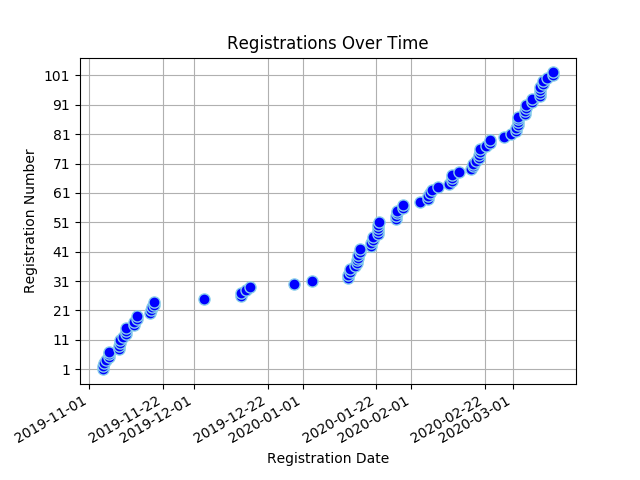
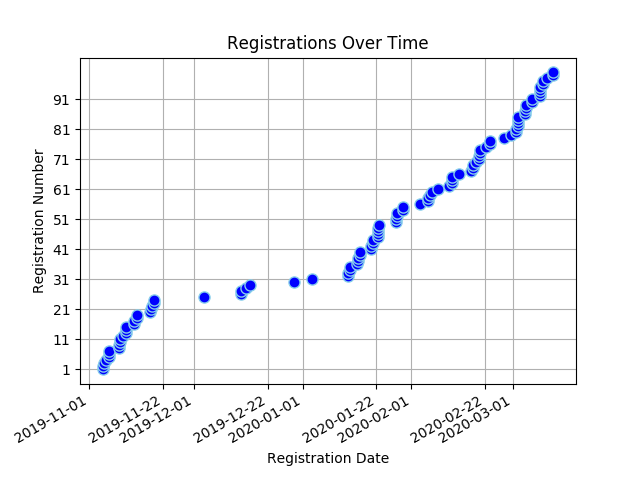
Registree stats backup on Wed Apr  8 17:27:26 SAST 2020

Changed region(s): [[0.0312, 0.25, 0.9062, 0.75], [0.0625, 0.125, 0.125, 0.2188]]

diff --git a/content/registrees/_index.md b/content/registrees/_index.md
@@ -3,11 +3,11 @@ title: Registration Stats
 draft: false
 ---
 
-<ul><li><strong>Number of Registrees</strong>: 102</li>
+<ul><li><strong>Number of Registrees</strong>: 100</li>
 
 <li><strong>Number of Clubs</strong>: 44</li>
 
-<li><strong>Club With Most Attendees</strong>: Cape Of Good Hope (8 registrees)</li>
+<li><strong>Clubs With Most Attendees</strong>: Cape Of Good Hope, Midrand (6 registrees)</li>
 </ul><h2>Registrees</h2>
 
 <script type="text/javascript" src="https://ajax.googleapis.com/ajax/libs/jquery/3.4.1/jquery.min.js"></script>
@@ -30,6 +30,6 @@ draft: false
         </tr>
     </thead>
     <tbody>
-<tr><td>Linda Anderson</td><td>George</td></tr><tr><td>Karl Bands</td><td>Helderkruin</td></tr><tr><td>Jonquille Bands</td><td>Helderkruin</td></tr><tr><td>Valencia Beukes</td><td>Kuilsriver</td></tr><tr><td>Lyn Botha</td><td>Cowies Hill</td></tr><tr><td>Annette Bothma</td><td>Fish Hoek</td></tr><tr><td>Jose Braga Borges</td><td>Malmesbury</td></tr><tr><td>Lynnette Virginia Christians</td><td>Cape Of Good Hope</td></tr><tr><td>Ivan Du Plooy</td><td>Krugersdorp</td></tr><tr><td>Peggy Du Plooy</td><td>Krugersdorp</td></tr><tr><td>Desiree Du Toit</td><td>Ramsgate</td></tr><tr><td>Charles Flanagan</td><td>Tokai</td></tr><tr><td>Julie Flanagan</td><td>Tokai</td></tr><tr><td>Allison Georges</td><td>Cape Of Good Hope</td></tr><tr><td>Bernd Gerhard</td><td>Wilro Park</td></tr><tr><td>Shirley Gerhard</td><td>Wilro Park</td></tr><tr><td>Valerie Graham</td><td>Nelspruit</td></tr><tr><td>Michael Graham</td><td>Nelspruit</td></tr><tr><td>Victor Hawla</td><td>Krugersdorp</td></tr><tr><td>Loriane Hawla</td><td>(Partner in Service)</td></tr><tr><td>Barbara Haywood</td><td>Eden</td></tr><tr><td>Wendy Higgins</td><td>Wilro Park</td></tr><tr><td>Trevor Hobbs</td><td>North Durban</td></tr><tr><td>Avril Hobbs</td><td>North Durban</td></tr><tr><td>Jacqui Hocking</td><td>Midrand</td></tr><tr><td>Cliff Hocking</td><td>Midrand</td></tr><tr><td>Leslie Human</td><td>East London Port Rex</td></tr><tr><td>Akinyemi Ismaila Tunde</td><td>-</td></tr><tr><td>Dawid Jacobs</td><td>Durbanville</td></tr><tr><td>Jean Jacobs</td><td>Mitchells Plain</td></tr><tr><td>Brenda Joshua</td><td>Cape Of Good Hope</td></tr><tr><td>Marco Joubert</td><td>Tygerberg Hills</td></tr><tr><td>Pascal Kabangu</td><td>Cape Of Good Hope</td></tr><tr><td>Ian King</td><td>Alberton</td></tr><tr><td>Sandy King</td><td>Alberton</td></tr><tr><td>Zwaai Krüger</td><td>Sedgefield</td></tr><tr><td>Bevil Lakay</td><td>Mitchells Plain</td></tr><tr><td>Paula Lang</td><td>Gordons Bay</td></tr><tr><td>James Malcolm Lang</td><td>Gordons Bay</td></tr><tr><td>Tony Marron</td><td>Kingsburgh</td></tr><tr><td>Nick Maré</td><td>Benoni Lakes</td></tr><tr><td>Beaulieu Maré</td><td>Benoni Lakes</td></tr><tr><td>Lance Maytham</td><td>Bredasdorp</td></tr><tr><td>Mark Meltzer</td><td>The Wilds</td></tr><tr><td>Roy Michas</td><td>Midrand</td></tr><tr><td>Dawn Michas</td><td>Midrand</td></tr><tr><td>Patrick Mills</td><td>Centurion</td></tr><tr><td>Bernice Mills</td><td>Centurion</td></tr><tr><td>Brian Moses</td><td>Cape Of Good Hope</td></tr><tr><td>Alain Moulounda</td><td>Cape Of Good Hope</td></tr><tr><td>Suzanne Murray</td><td>Vereeniging</td></tr><tr><td>Tillie Nel</td><td>Eden</td></tr><tr><td>Pieter Nel</td><td>George</td></tr><tr><td>Michael Newlands</td><td>Port Alfred</td></tr><tr><td>Ramona Nulliah</td><td>Durban Host</td></tr><tr><td>Gary Nulliah</td><td>Durban Host</td></tr><tr><td>Teresa Pantoleon</td><td>Vereeniging</td></tr><tr><td>William Pfaff</td><td>North Durban</td></tr><tr><td>Patrick Pillay</td><td>Tygerberg Hills</td></tr><tr><td>Gavin Polkinghorne</td><td>Kensington</td></tr><tr><td>Tracey Polkinghorne</td><td>Kensington</td></tr><tr><td>Yvonne  Maureen Poyo</td><td>Cape Of Good Hope</td></tr><tr><td>Karin Preston</td><td>Durban South</td></tr><tr><td>Leon Ras</td><td>Swellendam</td></tr><tr><td>Mary-Anne Ras</td><td>Swellendam</td></tr><tr><td>Moira Rigby</td><td>Kingsburgh</td></tr><tr><td>David Rigby</td><td>Kingsburgh</td></tr><tr><td>Mark Rossouw</td><td>Tokai</td></tr><tr><td>Sharon Sampie</td><td>Bergvliet</td></tr><tr><td>Susanna Helena Smit</td><td>Centurion</td></tr><tr><td>Herman Smit</td><td>Swellendam</td></tr><tr><td>Berdine Smit</td><td>(Partner in Service)</td></tr><tr><td>Rochelle Smith</td><td>Cape Of Good Hope</td></tr><tr><td>Jeff Smith</td><td>Port Shepstone</td></tr><tr><td>Pierre Theron</td><td>Midrand</td></tr><tr><td>Moira Theron</td><td>Midrand</td></tr><tr><td>Diane Townsend</td><td>Benoni Lakes</td></tr><tr><td>Kendyl Townsend</td><td>Benoni Lakes</td></tr><tr><td>Alex Tshikala</td><td>Athlone</td></tr><tr><td>Alistair Tuckett</td><td>Roodepoort Clearwater Cyber</td></tr><tr><td>Gail Tuckett</td><td>Roodepoort Clearwater Cyber</td></tr><tr><td>Rowan Tuckett</td><td>Roodepoort Clearwater Cyber</td></tr><tr><td>Neville Van Rensburg</td><td>Moorreesburg</td></tr><tr><td>Jeannie Van Wulven</td><td>Tygerberg Hills</td></tr><tr><td>Joyce Wilcocks</td><td>Pretoria Jakaranda</td></tr><tr><td>Richard Williams</td><td>(Partner in Service)</td></tr><tr><td>Owolabi Williams Monzur</td><td>Badagry</td></tr><tr><td>Geila Wills</td><td>Cape Town</td></tr><tr><td>Patricia Wilson</td><td>Kingsburgh</td></tr><tr><td>Judy Young</td><td>Durbanville</td></tr><tr><td>Sydney van Heerden</td><td>Wilro Park</td></tr><tr><td>Sandy van Heerden</td><td>Wilro Park</td></tr><tr><td>Deon van Wulven</td><td>Tygerberg Hills</td></tr><tr><td>Janine van Wulven</td><td>Tygerberg Hills</td></tr><tr><td>Lindie van Wyk</td><td>Pretoria Jakaranda</td></tr><tr><td>Vicki van Wyk</td><td>North Durban</td></tr><tr><td>Kim van Wyk</td><td>North Durban</td></tr><tr><td>Martha Maria van der Merwe</td><td>Malmesbury</td></tr><tr><td>Brian von der Decken</td><td>King William's Town</td></tr><tr><td>Janet von der Decken</td><td>(Partner in Service)</td></tr><tr><td>Andrew von der Decken</td><td>King William's Town</td></tr><tr><td>Ann von der Decken</td><td>King William's Town</td></tr>
+<tr><td>Linda Anderson</td><td>George</td></tr><tr><td>Karl Bands</td><td>Helderkruin</td></tr><tr><td>Jonquille Bands</td><td>Helderkruin</td></tr><tr><td>Valencia Beukes</td><td>Kuilsriver</td></tr><tr><td>Lyn Botha</td><td>Cowies Hill</td></tr><tr><td>Annette Bothma</td><td>Fish Hoek</td></tr><tr><td>Jose Braga Borges</td><td>Malmesbury</td></tr><tr><td>Lynnette Virginia Christians</td><td>Cape Of Good Hope</td></tr><tr><td>Ivan Du Plooy</td><td>Krugersdorp</td></tr><tr><td>Peggy Du Plooy</td><td>Krugersdorp</td></tr><tr><td>Desiree Du Toit</td><td>Ramsgate</td></tr><tr><td>Charles Flanagan</td><td>Tokai</td></tr><tr><td>Julie Flanagan</td><td>Tokai</td></tr><tr><td>Bernd Gerhard</td><td>Wilro Park</td></tr><tr><td>Shirley Gerhard</td><td>Wilro Park</td></tr><tr><td>Valerie Graham</td><td>Nelspruit</td></tr><tr><td>Michael Graham</td><td>Nelspruit</td></tr><tr><td>Victor Hawla</td><td>Krugersdorp</td></tr><tr><td>Loriane Hawla</td><td>(Partner in Service)</td></tr><tr><td>Barbara Haywood</td><td>Eden</td></tr><tr><td>Wendy Higgins</td><td>Wilro Park</td></tr><tr><td>Trevor Hobbs</td><td>North Durban</td></tr><tr><td>Avril Hobbs</td><td>North Durban</td></tr><tr><td>Jacqui Hocking</td><td>Midrand</td></tr><tr><td>Cliff Hocking</td><td>Midrand</td></tr><tr><td>Leslie Human</td><td>East London Port Rex</td></tr><tr><td>Akinyemi Ismaila Tunde</td><td>-</td></tr><tr><td>Dawid Jacobs</td><td>Durbanville</td></tr><tr><td>Jean Jacobs</td><td>Mitchells Plain</td></tr><tr><td>Brenda Joshua</td><td>Cape Of Good Hope</td></tr><tr><td>Marco Joubert</td><td>Tygerberg Hills</td></tr><tr><td>Pascal Kabangu</td><td>Cape Of Good Hope</td></tr><tr><td>Ian King</td><td>Alberton</td></tr><tr><td>Sandy King</td><td>Alberton</td></tr><tr><td>Zwaai Krüger</td><td>Sedgefield</td></tr><tr><td>Bevil Lakay</td><td>Mitchells Plain</td></tr><tr><td>Paula Lang</td><td>Gordons Bay</td></tr><tr><td>James Malcolm Lang</td><td>Gordons Bay</td></tr><tr><td>Tony Marron</td><td>Kingsburgh</td></tr><tr><td>Nick Maré</td><td>Benoni Lakes</td></tr><tr><td>Beaulieu Maré</td><td>Benoni Lakes</td></tr><tr><td>Lance Maytham</td><td>Bredasdorp</td></tr><tr><td>Mark Meltzer</td><td>The Wilds</td></tr><tr><td>Roy Michas</td><td>Midrand</td></tr><tr><td>Dawn Michas</td><td>Midrand</td></tr><tr><td>Patrick Mills</td><td>Centurion</td></tr><tr><td>Bernice Mills</td><td>Centurion</td></tr><tr><td>Brian Moses</td><td>Cape Of Good Hope</td></tr><tr><td>Alain Moulounda</td><td>Cape Of Good Hope</td></tr><tr><td>Suzanne Murray</td><td>Vereeniging</td></tr><tr><td>Tillie Nel</td><td>Eden</td></tr><tr><td>Pieter Nel</td><td>George</td></tr><tr><td>Michael Newlands</td><td>Port Alfred</td></tr><tr><td>Ramona Nulliah</td><td>Durban Host</td></tr><tr><td>Gary Nulliah</td><td>Durban Host</td></tr><tr><td>Teresa Pantoleon</td><td>Vereeniging</td></tr><tr><td>William Pfaff</td><td>North Durban</td></tr><tr><td>Patrick Pillay</td><td>Tygerberg Hills</td></tr><tr><td>Gavin Polkinghorne</td><td>Kensington</td></tr><tr><td>Tracey Polkinghorne</td><td>Kensington</td></tr><tr><td>Karin Preston</td><td>Durban South</td></tr><tr><td>Leon Ras</td><td>Swellendam</td></tr><tr><td>Mary-Anne Ras</td><td>Swellendam</td></tr><tr><td>Moira Rigby</td><td>Kingsburgh</td></tr><tr><td>David Rigby</td><td>Kingsburgh</td></tr><tr><td>Mark Rossouw</td><td>Tokai</td></tr><tr><td>Sharon Sampie</td><td>Bergvliet</td></tr><tr><td>Susanna Helena Smit</td><td>Centurion</td></tr><tr><td>Herman Smit</td><td>Swellendam</td></tr><tr><td>Berdine Smit</td><td>(Partner in Service)</td></tr><tr><td>Rochelle Smith</td><td>Cape Of Good Hope</td></tr><tr><td>Jeff Smith</td><td>Port Shepstone</td></tr><tr><td>Pierre Theron</td><td>Midrand</td></tr><tr><td>Moira Theron</td><td>Midrand</td></tr><tr><td>Diane Townsend</td><td>Benoni Lakes</td></tr><tr><td>Kendyl Townsend</td><td>Benoni Lakes</td></tr><tr><td>Alex Tshikala</td><td>Athlone</td></tr><tr><td>Alistair Tuckett</td><td>Roodepoort Clearwater Cyber</td></tr><tr><td>Gail Tuckett</td><td>Roodepoort Clearwater Cyber</td></tr><tr><td>Rowan Tuckett</td><td>Roodepoort Clearwater Cyber</td></tr><tr><td>Neville Van Rensburg</td><td>Moorreesburg</td></tr><tr><td>Jeannie Van Wulven</td><td>Tygerberg Hills</td></tr><tr><td>Joyce Wilcocks</td><td>Pretoria Jakaranda</td></tr><tr><td>Richard Williams</td><td>(Partner in Service)</td></tr><tr><td>Owolabi Williams Monzur</td><td>Badagry</td></tr><tr><td>Geila Wills</td><td>Cape Town</td></tr><tr><td>Patricia Wilson</td><td>Kingsburgh</td></tr><tr><td>Judy Young</td><td>Durbanville</td></tr><tr><td>Sydney van Heerden</td><td>Wilro Park</td></tr><tr><td>Sandy van Heerden</td><td>Wilro Park</td></tr><tr><td>Deon van Wulven</td><td>Tygerberg Hills</td></tr><tr><td>Janine van Wulven</td><td>Tygerberg Hills</td></tr><tr><td>Lindie van Wyk</td><td>Pretoria Jakaranda</td></tr><tr><td>Vicki van Wyk</td><td>North Durban</td></tr><tr><td>Kim van Wyk</td><td>North Durban</td></tr><tr><td>Martha Maria van der Merwe</td><td>Malmesbury</td></tr><tr><td>Brian von der Decken</td><td>King William's Town</td></tr><tr><td>Janet von der Decken</td><td>(Partner in Service)</td></tr><tr><td>Andrew von der Decken</td><td>King William's Town</td></tr><tr><td>Ann von der Decken</td><td>King William's Town</td></tr>
 </tbody>
 </table>

diff --git a/content/full_stats/_index.md b/content/full_stats/_index.md
@@ -17,34 +17,34 @@ draft: false
 <body>
 <h1 style="color: #000000;">Full Registration Stats</h1>
 <ul><li><strong>Number of Registrees</strong><ul>
-<li><strong>Total</strong>: 102</li>
-<li><strong>Lions</strong>: 98</li>
+<li><strong>Total</strong>: 100</li>
+<li><strong>Lions</strong>: 96</li>
 <li><strong>Partners In Service</strong>: 4</li>
 </ul>
 <li><strong>Number of Clubs</strong>: 44</li>
-<li><strong>Club With Most Attendees</strong>: Cape Of Good Hope (8 registrees)</li>
-<li><strong>Registrations</strong></li><ul><li><strong>Full</strong>: 99
+<li><strong>Clubs With Most Attendees</strong>: Cape Of Good Hope, Midrand (6 registrees)</li>
+<li><strong>Registrations</strong></li><ul><li><strong>Full</strong>: 97
 <li><strong>Banquet</strong>: 1
 <li><strong>Convention</strong>: 2
 <li><strong>Theme</strong>: 1
 </ul><li><strong>Extra Items</strong></li><ul>
-<li><strong>Pins</strong>: 88
+<li><strong>Pins</strong>: 85
 </ul><li><strong>Extra Activities</strong></li><ul>
 <li><strong>MJF Lunch</strong>: 28
 <li><strong>PDG Breakfast</strong>: 27
 <li><strong>Sharks Board</strong>: 4
 <li><strong>Golf</strong>: 3
-<li><strong>Sight Seeing</strong>: 12
+<li><strong>Sight Seeing</strong>: 11
 <li><strong>Service Project</strong>: 20
 <li><strong>Partner Program</strong>: 4
 </ul>
 <li><strong>Payment Details</strong></li><ul>
-<li><strong>Total Owed:</strong> R133805.00</li>
-<li><strong>Paid:</strong> R77050.00</li>
+<li><strong>Total Owed:</strong> R131070.00</li>
+<li><strong>Paid:</strong> R74315.00</li>
 <li><strong>Still Owed:</strong> R56755.00</li>
-<li><strong>Number of Attendees Who Have Paid in Full:</strong> 53 (51.96%)</li>
-<li><strong>Number of Attendees Who Have Paid in Part:</strong> 12 (11.76%)</li>
-<li><strong>Number of Attendees Who Haven't Paid Anything:</strong> 37 (36.27%)</li>
+<li><strong>Number of Attendees Who Have Paid in Full:</strong> 51 (51.00%)</li>
+<li><strong>Number of Attendees Who Have Paid in Part:</strong> 12 (12.00%)</li>
+<li><strong>Number of Attendees Who Haven't Paid Anything:</strong> 37 (37.00%)</li>
 </ul>
 <li><strong>Cancellations</strong></li><ul>
 <li>20-02-07 McCullough, David (reg number: 058)</li>
@@ -64,6 +64,8 @@ draft: false
 <li>20-04-01 Wallendorf, Gunther (reg number: 126)</li>
 <li>20-04-01 Van der Schyf, Yolandi (reg number: 052)</li>
 <li>20-04-01 Smith, Bennie  (reg number: 009)</li>
+<li>20-04-06 Georges, Allison  (reg number: 053)</li>
+<li>20-04-08 Poyo , Yvonne  Maureen (reg number: 049)</li>
 </ul>
 <li><strong>Dietary Requirements</strong></li><ul>
 <li>Allergic to Shellfish</li>
@@ -75,7 +77,6 @@ draft: false
 <li>No fish or mushrooms</li>
 <li>No fish please </li>
 <li>No gluten, starch or sugar (including fruit) No tea or coffee.</li>
-<li>dairy</li>
 <li>no seafood</li>
 </ul>
 <li><strong>Disability Requirements</strong></li><ul>
@@ -248,17 +249,6 @@ StillOwed
 <td>Julie Flanagan</td>
 <td>Tokai</td>
 <td>Lion Jules Flanagan</td>
-<td>1340.00</td>
-<td>1340.00</td>
-<td>0.00</td>
-</tr>
-
-    
-<tr style="background-color: lightgreen">
-<td>53</td>
-<td>Allison Georges</td>
-<td>Cape Of Good Hope</td>
-<td>Allison Georges</td>
 <td>1340.00</td>
 <td>1340.00</td>
 <td>0.00</td>
@@ -779,17 +769,6 @@ StillOwed
 <td>1285.00</td>
 <td>0.00</td>
 <td>1285.00</td>
-</tr>
-
-    
-<tr style="background-color: lightgreen">
-<td>49</td>
-<td>Yvonne  Maureen Poyo</td>
-<td>Cape Of Good Hope</td>
-<td>Yvonne</td>
-<td>1395.00</td>
-<td>1395.00</td>
-<td>0.00</td>
 </tr>
 
     
